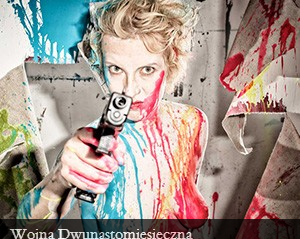
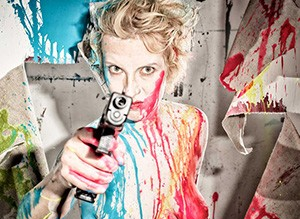
Fix mockup links and wojna image
- Disable all links in mockups 1, 3, 4 (point to # instead of mismatched subpages)
- Re-crop wojna category image to fully remove black label bar
- Mockup 2 (Gallery) left as-is — it's a complete design

diff --git a/mockup-immersive.html b/mockup-immersive.html
@@ -522,12 +522,12 @@
 <nav class="top-nav">
   <div class="logo">Izabela Chamczyk</div>
   <ul>
-    <li><a href="prace.html" class="nav-link">Prace</a></li>
-    <li><a href="akcje.html" class="nav-link">Akcje</a></li>
-    <li><a href="aktualnosci.html" class="nav-link">Aktualności</a></li>
-    <li><a href="bio.html" class="nav-link">Bio</a></li>
-    <li><a href="kontakt.html" class="nav-link">Kontakt</a></li>
-    <li><a href="en/index.html" class="nav-link">EN</a></li>
+    <li><a href="#" class="nav-link">Prace</a></li>
+    <li><a href="#" class="nav-link">Akcje</a></li>
+    <li><a href="#" class="nav-link">Aktualności</a></li>
+    <li><a href="#" class="nav-link">Bio</a></li>
+    <li><a href="#" class="nav-link">Kontakt</a></li>
+    <li><a href="#" class="nav-link">EN</a></li>
   </ul>
   <button class="hamburger" aria-label="Menu">
     <span></span><span></span><span></span>
@@ -555,30 +555,30 @@
 <!-- DISCIPLINE MARQUEE -->
 <div class="marquee-section reveal">
   <div class="marquee-track">
-    <a href="malarstwo.html" class="marquee-item">Malarstwo</a>
+    <a href="#" class="marquee-item">Malarstwo</a>
     <span class="marquee-sep">✦</span>
-    <a href="performance.html" class="marquee-item">Performance</a>
+    <a href="#" class="marquee-item">Performance</a>
     <span class="marquee-sep">✦</span>
-    <a href="video.html" class="marquee-item">Video</a>
+    <a href="#" class="marquee-item">Video</a>
     <span class="marquee-sep">✦</span>
-    <a href="instalacje.html" class="marquee-item">Instalacje</a>
+    <a href="#" class="marquee-item">Instalacje</a>
     <span class="marquee-sep">✦</span>
-    <a href="fotografia.html" class="marquee-item">Fotografia</a>
+    <a href="#" class="marquee-item">Fotografia</a>
     <span class="marquee-sep">✦</span>
-    <a href="warsztaty.html" class="marquee-item">Warsztaty</a>
+    <a href="#" class="marquee-item">Warsztaty</a>
     <span class="marquee-sep">✦</span>
     <!-- Duplicate for seamless loop -->
-    <a href="malarstwo.html" class="marquee-item">Malarstwo</a>
+    <a href="#" class="marquee-item">Malarstwo</a>
     <span class="marquee-sep">✦</span>
-    <a href="performance.html" class="marquee-item">Performance</a>
+    <a href="#" class="marquee-item">Performance</a>
     <span class="marquee-sep">✦</span>
-    <a href="video.html" class="marquee-item">Video</a>
+    <a href="#" class="marquee-item">Video</a>
     <span class="marquee-sep">✦</span>
-    <a href="instalacje.html" class="marquee-item">Instalacje</a>
+    <a href="#" class="marquee-item">Instalacje</a>
     <span class="marquee-sep">✦</span>
-    <a href="fotografia.html" class="marquee-item">Fotografia</a>
+    <a href="#" class="marquee-item">Fotografia</a>
     <span class="marquee-sep">✦</span>
-    <a href="warsztaty.html" class="marquee-item">Warsztaty</a>
+    <a href="#" class="marquee-item">Warsztaty</a>
     <span class="marquee-sep">✦</span>
   </div>
 </div>
@@ -590,7 +590,7 @@
   </div>
 
   <div class="h-scroll">
-    <a class="gallery-card reveal reveal-delay-1" href="malarstwo.html">
+    <a class="gallery-card reveal reveal-delay-1" href="#">
       <div class="card-img">
         <img src="images/cat-malarstwo.png" alt="Malarstwo">
         <div class="card-overlay">
@@ -605,7 +605,7 @@
         <div class="count">86 prac</div>
       </div>
     </a>
-    <a class="gallery-card reveal reveal-delay-2" href="video.html">
+    <a class="gallery-card reveal reveal-delay-2" href="#">
       <div class="card-img">
         <img src="images/cat-video.png" alt="Video">
         <div class="card-overlay">
@@ -620,7 +620,7 @@
         <div class="count">12 prac</div>
       </div>
     </a>
-    <a class="gallery-card reveal reveal-delay-3" href="instalacje.html">
+    <a class="gallery-card reveal reveal-delay-3" href="#">
       <div class="card-img">
         <img src="images/cat-instalacje.png" alt="Instalacje">
         <div class="card-overlay">
@@ -635,7 +635,7 @@
         <div class="count">6 prac</div>
       </div>
     </a>
-    <a class="gallery-card reveal" href="fotografia.html">
+    <a class="gallery-card reveal" href="#">
       <div class="card-img">
         <img src="images/cat-fotografia.png" alt="Fotografia">
         <div class="card-overlay">
@@ -660,7 +660,7 @@
   </div>
 
   <div class="h-scroll">
-    <a class="gallery-card reveal reveal-delay-1" href="performance.html">
+    <a class="gallery-card reveal reveal-delay-1" href="#">
       <div class="card-img">
         <img src="images/cat-performance.png" alt="Performance">
         <div class="card-overlay">
@@ -675,7 +675,7 @@
         <div class="count">40 prac</div>
       </div>
     </a>
-    <a class="gallery-card reveal reveal-delay-2" href="wojna.html">
+    <a class="gallery-card reveal reveal-delay-2" href="#">
       <div class="card-img">
         <img src="images/cat-wojna.png" alt="Wojna Dwunastomiesięczna">
         <div class="card-overlay">
@@ -690,7 +690,7 @@
         <div class="count">11 prac</div>
       </div>
     </a>
-    <a class="gallery-card reveal reveal-delay-3" href="warsztaty.html">
+    <a class="gallery-card reveal reveal-delay-3" href="#">
       <div class="card-img">
         <img src="images/cat-warsztaty.png" alt="Warsztaty">
         <div class="card-overlay">
@@ -721,9 +721,9 @@
 <footer class="site-footer">
   <span>&copy; 2026 Izabela Chamczyk</span>
   <span>
-    <a href="bio.html">Bio</a> &nbsp;&middot;&nbsp;
-    <a href="kontakt.html">Kontakt</a> &nbsp;&middot;&nbsp;
-    <a href="en/index.html">English</a>
+    <a href="#">Bio</a> &nbsp;&middot;&nbsp;
+    <a href="#">Kontakt</a> &nbsp;&middot;&nbsp;
+    <a href="#">English</a>
   </span>
 </footer>
 

diff --git a/mockup-cargo.html b/mockup-cargo.html
@@ -223,39 +223,39 @@
 
   <!-- HEADER -->
   <header class="header">
-    <a href="index.html" class="header-name">Izabela Chamczyk</a>
+    <a href="#" class="header-name">Izabela Chamczyk</a>
     <nav>
       <ul class="header-nav">
-        <li><a href="prace.html">Prace</a></li>
-        <li><a href="akcje.html">Akcje</a></li>
-        <li><a href="bio.html">Bio</a></li>
-        <li><a href="kontakt.html">Kontakt</a></li>
-        <li><a href="en/index.html">EN</a></li>
+        <li><a href="#">Prace</a></li>
+        <li><a href="#">Akcje</a></li>
+        <li><a href="#">Bio</a></li>
+        <li><a href="#">Kontakt</a></li>
+        <li><a href="#">EN</a></li>
       </ul>
     </nav>
   </header>
 
   <!-- HERO — one large featured painting -->
-  <a href="malarstwo.html" class="hero-img">
+  <a href="#" class="hero-img">
     <img src="images/slider-1-malarstwo.jpg" alt="Izabela Chamczyk — Malarstwo">
   </a>
   <div class="hero-caption">Malarstwo, olej na płótnie</div>
 
   <!-- DISCIPLINES -->
   <div class="disciplines">
-    <a href="malarstwo.html">Malarstwo</a> &nbsp;·&nbsp;
-    <a href="performance.html">Performance</a> &nbsp;·&nbsp;
-    <a href="video.html">Video</a> &nbsp;·&nbsp;
-    <a href="instalacje.html">Instalacje</a> &nbsp;·&nbsp;
-    <a href="fotografia.html">Fotografia</a> &nbsp;·&nbsp;
-    <a href="warsztaty.html">Warsztaty</a>
+    <a href="#">Malarstwo</a> &nbsp;·&nbsp;
+    <a href="#">Performance</a> &nbsp;·&nbsp;
+    <a href="#">Video</a> &nbsp;·&nbsp;
+    <a href="#">Instalacje</a> &nbsp;·&nbsp;
+    <a href="#">Fotografia</a> &nbsp;·&nbsp;
+    <a href="#">Warsztaty</a>
   </div>
 
   <!-- PRACE -->
   <div class="section-label">Prace</div>
 
   <div class="grid">
-    <a class="grid-item" href="malarstwo.html">
+    <a class="grid-item" href="#">
       <div class="thumb">
         <img src="images/cat-malarstwo.png" alt="Malarstwo">
       </div>
@@ -265,7 +265,7 @@
       </div>
     </a>
 
-    <a class="grid-item" href="video.html">
+    <a class="grid-item" href="#">
       <div class="thumb">
         <img src="images/cat-video.png" alt="Video">
       </div>
@@ -275,7 +275,7 @@
       </div>
     </a>
 
-    <a class="grid-item" href="instalacje.html">
+    <a class="grid-item" href="#">
       <div class="thumb">
         <img src="images/cat-instalacje.png" alt="Instalacje">
       </div>
@@ -285,7 +285,7 @@
       </div>
     </a>
 
-    <a class="grid-item" href="fotografia.html">
+    <a class="grid-item" href="#">
       <div class="thumb">
         <img src="images/cat-fotografia.png" alt="Fotografia">
       </div>
@@ -300,7 +300,7 @@
   <div class="section-label">Akcje</div>
 
   <div class="grid">
-    <a class="grid-item" href="performance.html">
+    <a class="grid-item" href="#">
       <div class="thumb">
         <img src="images/cat-performance.png" alt="Performance">
       </div>
@@ -310,7 +310,7 @@
       </div>
     </a>
 
-    <a class="grid-item" href="wojna.html">
+    <a class="grid-item" href="#">
       <div class="thumb">
         <img src="images/cat-wojna.png" alt="Wojna Dwunastomiesięczna">
       </div>
@@ -320,7 +320,7 @@
       </div>
     </a>
 
-    <a class="grid-item" href="warsztaty.html">
+    <a class="grid-item" href="#">
       <div class="thumb">
         <img src="images/cat-warsztaty.png" alt="Warsztaty">
       </div>
@@ -335,9 +335,9 @@
   <footer class="footer">
     <span>&copy; 2026 Izabela Chamczyk</span>
     <span>
-      <a href="bio.html">Bio</a> &nbsp;·&nbsp;
-      <a href="kontakt.html">Kontakt</a> &nbsp;·&nbsp;
-      <a href="en/index.html">English</a>
+      <a href="#">Bio</a> &nbsp;·&nbsp;
+      <a href="#">Kontakt</a> &nbsp;·&nbsp;
+      <a href="#">English</a>
     </span>
   </footer>
 

diff --git a/mockup-vertical.html b/mockup-vertical.html
@@ -301,7 +301,7 @@
   <!-- VERTICAL STRINGS CATEGORIES -->
   <div class="v-categories">
 
-    <a class="v-category" href="malarstwo.html">
+    <a class="v-category" href="#">
       <div class="v-number">01</div>
       <div class="v-label"><span>Malarstwo</span></div>
       <div class="v-image">
@@ -314,7 +314,7 @@
       <div class="v-accent"></div>
     </a>
 
-    <a class="v-category" href="performance.html">
+    <a class="v-category" href="#">
       <div class="v-number">02</div>
       <div class="v-label"><span>Performance</span></div>
       <div class="v-image">
@@ -327,7 +327,7 @@
       <div class="v-accent"></div>
     </a>
 
-    <a class="v-category" href="video.html">
+    <a class="v-category" href="#">
       <div class="v-number">03</div>
       <div class="v-label"><span>Video</span></div>
       <div class="v-image">
@@ -340,7 +340,7 @@
       <div class="v-accent"></div>
     </a>
 
-    <a class="v-category" href="instalacje.html">
+    <a class="v-category" href="#">
       <div class="v-number">04</div>
       <div class="v-label"><span>Instalacje</span></div>
       <div class="v-image">
@@ -353,7 +353,7 @@
       <div class="v-accent"></div>
     </a>
 
-    <a class="v-category" href="fotografia.html">
+    <a class="v-category" href="#">
       <div class="v-number">05</div>
       <div class="v-label"><span>Fotografia</span></div>
       <div class="v-image">
@@ -366,7 +366,7 @@
       <div class="v-accent"></div>
     </a>
 
-    <a class="v-category" href="wojna.html">
+    <a class="v-category" href="#">
       <div class="v-number">06</div>
       <div class="v-label"><span>Wojna 12M</span></div>
       <div class="v-image">
@@ -379,7 +379,7 @@
       <div class="v-accent"></div>
     </a>
 
-    <a class="v-category" href="warsztaty.html">
+    <a class="v-category" href="#">
       <div class="v-number">07</div>
       <div class="v-label"><span>Warsztaty</span></div>
       <div class="v-image">
